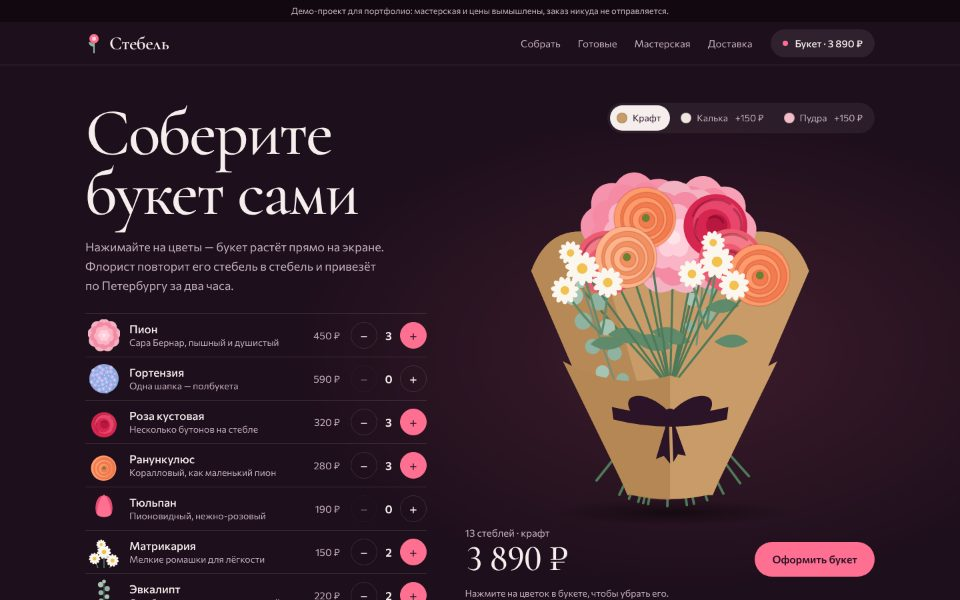
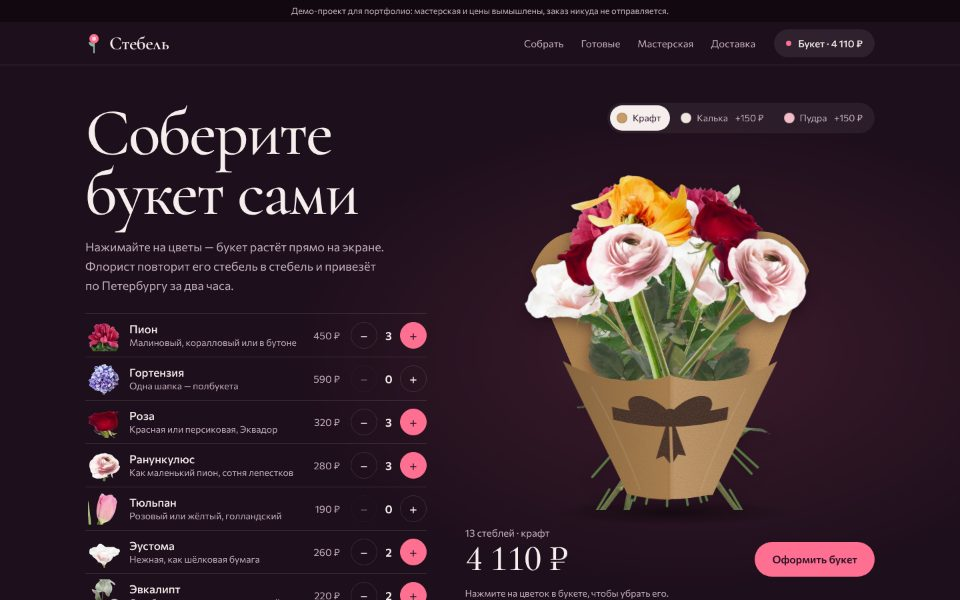
Стебель: букет собирается из настоящих фото цветов на стеблях
Claude-Session: https://claude.ai/code/session_01ErWDkw8ehoDjXzcsEpoAZi

diff --git a/demo-flowers/index.html b/demo-flowers/index.html
@@ -82,7 +82,7 @@
   .stem-row { display: grid; grid-template-columns: minmax(0, 1fr) auto; align-items: center; gap: 12px; border-bottom: 1px solid var(--night-line); }
   .stem-add { display: grid; grid-template-columns: 48px minmax(0, 1fr) auto; align-items: center; gap: 14px; min-height: 64px; padding: 6px 4px; border: 0; background: none; text-align: left; cursor: pointer; border-radius: 12px; transition: background-color .2s; }
   @media (hover: hover) { .stem-add:hover { background: rgba(255, 255, 255, .05); } .stem-add:hover .ico { transform: rotate(-8deg) scale(1.08); } }
-  .ico { width: 48px; height: 48px; transition: transform .45s var(--spring); }
+  .ico { width: 48px; height: 48px; object-fit: contain; transition: transform .45s var(--spring); }
   .stem-add b { display: block; font-weight: 500; font-size: 1.0625rem; line-height: 1.25; }
   .stem-add small { display: block; color: var(--on-night-soft); font-size: .875rem; line-height: 1.35; }
   .stem-add b em { display: none; font-style: normal; font-weight: 400; color: var(--on-night-soft); margin-left: 8px; font-size: .9375rem; font-variant-numeric: tabular-nums; }
@@ -102,10 +102,10 @@
   .papers button[aria-pressed="true"] { background: var(--on-night); color: var(--ink); }
   .bouquet { display: block; width: 100%; height: auto; max-height: 72vh; margin: 4px auto 0; overflow: visible; -webkit-tap-highlight-color: transparent; }
   .bouquet .stem { transition: transform .8s var(--ease); }
-  .bouquet .s-up { transition: transform .7s var(--ease); }
-  .bouquet .head { transition: transform .7s var(--ease); cursor: pointer; }
-  .bouquet .bloom { transition: transform .55s var(--spring) .28s, filter .2s; }
-  @media (hover: hover) { .bouquet .head:hover .bloom { filter: brightness(1.12) drop-shadow(0 0 6px rgba(255, 255, 255, .35)); } }
+  .bouquet .slide { transition: transform .8s var(--ease), opacity .5s; }
+  .bouquet image { cursor: pointer; transition: filter .2s; }
+  @media (hover: hover) { .bouquet image:hover { filter: brightness(1.12); } }
+  #layers { filter: drop-shadow(0 6px 8px rgba(20, 4, 16, .45)); }
   .bouquet .paper-back, .bouquet .paper-front { transition: transform .8s var(--ease), fill .5s; }
   .bouquet .paper-front path, .bouquet .paper-back path { transition: fill .5s; }
   .stage-foot { display: flex; align-items: flex-end; justify-content: space-between; gap: 16px; flex-wrap: wrap; margin-top: -8px; }
@@ -286,16 +286,26 @@
         <svg class="bouquet" id="bouquet" viewBox="40 150 520 500" role="img" aria-label="Ваш букет">
           <defs>
             <radialGradient id="floor" cx="50%" cy="50%" r="50%"><stop offset="0" stop-color="#000" stop-opacity=".45"/><stop offset="1" stop-color="#000" stop-opacity="0"/></radialGradient>
+            <filter id="grain" x="0" y="0" width="100%" height="100%">
+              <feTurbulence type="fractalNoise" baseFrequency=".85" numOctaves="3" seed="4" result="noise"/>
+              <feColorMatrix in="noise" type="matrix" values="0 0 0 0 .2  0 0 0 0 .12  0 0 0 0 .05  0 0 0 .55 0" result="fibres"/>
+              <feComposite in="fibres" in2="SourceGraphic" operator="in" result="grain"/>
+              <feMerge><feMergeNode in="SourceGraphic"/><feMergeNode in="grain"/></feMerge>
+            </filter>
+            <linearGradient id="fold" x1="0" x2="1"><stop offset="0" stop-color="#000" stop-opacity=".22"/><stop offset=".48" stop-color="#000" stop-opacity="0"/><stop offset=".52" stop-color="#fff" stop-opacity=".1"/><stop offset="1" stop-color="#000" stop-opacity=".12"/></linearGradient>
+            <clipPath id="trim"><rect x="0" y="0" width="600" height="624"/></clipPath>
           </defs>
           <ellipse cx="300" cy="628" rx="150" ry="16" fill="url(#floor)"/>
-          <g class="paper-back" id="paper-back" style="transform-origin: 300px 640px">
+          <g class="paper-back" id="paper-back" style="transform-origin: 300px 640px" filter="url(#grain)">
             <path d="M246 606 L124 322 Q146 262 204 274 Q238 214 300 232 Q362 214 396 274 Q454 262 476 322 L354 606 Z"/>
             <path d="M246 606 L124 322 Q146 262 204 274 L300 610 Z" opacity=".55"/>
           </g>
-          <g id="layers"></g>
-          <g class="paper-front" id="paper-front">
+          <g id="layers" clip-path="url(#trim)"></g>
+          <g class="paper-front" id="paper-front" filter="url(#grain)">
             <path d="M246 604 L164 436 Q232 474 300 454 Q368 474 436 436 L354 604 Q300 618 246 604 Z"/>
             <path d="M246 604 L164 436 Q232 474 300 454 L300 612 Q270 612 246 604 Z" opacity=".6"/>
+            <path d="M246 604 L164 436 Q232 474 300 454 Q368 474 436 436 L354 604 Q300 618 246 604 Z" fill="url(#fold)" style="fill:url(#fold)"/>
+            <path d="M200 468 Q236 530 262 600 M396 470 Q360 540 338 602" fill="none" stroke="rgba(255,255,255,.14)" stroke-width="1.5"/>
             <g id="ribbon">
               <path d="M226 494 Q300 512 374 494 L372 510 Q300 528 228 510 Z"/>
               <path d="M300 502 C 270 470, 236 476, 250 500 C 262 520, 290 512, 300 502 Z"/>
@@ -410,82 +420,46 @@
   // детерминированный «случай» по номеру стебля: букет не дёргается при перерисовке
   const rnd = (i, k = 1) => { const x = Math.sin(i * 127.1 + k * 311.7) * 43758.5453; return x - Math.floor(x); };
 
-  /* ---------- Рисунки цветов: вырезанная бумага, центр головки в 0,0 ---------- */
-  const ring = (n, dist, rx, ry, fill, rot = 0) => Array.from({ length: n }, (_, i) =>
-    `<ellipse cx="0" cy="${-dist}" rx="${rx}" ry="${ry}" fill="${fill}" transform="rotate(${rot + i * 360 / n})"/>`).join('');
-  const leaf = (y, side, len = 34, fill = '#5f8a6b') =>
-    `<path d="M0 ${y} q ${side * len * .5} ${-len * .55} ${side * len} ${-len * .2} q ${-side * len * .45} ${len * .45} ${-side * len} ${len * .2}z" fill="${fill}"/>`;
-
-  const DRAW = {
-    peony: (i) => {
-      const tint = ['#f7a1b6', '#f3b2c2', '#f592ac'][Math.floor(rnd(i, 3) * 3)];
-      return leaf(96, rnd(i, 4) > .5 ? 1 : -1) + ring(9, 24, 21, 26, tint) + ring(9, 22, 16, 20, '#f58aa5', 20) + ring(7, 13, 14, 17, '#f9b4c6', 8) + ring(6, 6, 9, 12, '#ffd0db', 30) + '<circle r="6" fill="#ffe3ea"/>';
-    },
-    rose: (i) => {
-      const c = rnd(i, 3) > .5 ? ['#d6264f', '#e8466c', '#b8173f'] : ['#ee5a6f', '#f57a8a', '#d23f58'];
-      return leaf(70, rnd(i, 4) > .5 ? 1 : -1, 28) + `<circle r="27" fill="${c[0]}"/><circle cx="2" cy="-2" r="21" fill="${c[1]}"/><circle cx="-2" cy="1" r="15" fill="${c[0]}"/><circle cx="1" cy="-1" r="9" fill="${c[2]}"/>
-        <path d="M-20 -6 a21 21 0 0 1 30 -14 M14 -16 a18 18 0 0 1 4 26 M-12 14 a16 16 0 0 1 -4 -18 M-6 -6 a8 8 0 0 1 12 2" fill="none" stroke="rgba(60,0,20,.28)" stroke-width="2" stroke-linecap="round"/>`;
-    },
-    ranunculus: (i) => {
-      const [a, b] = rnd(i, 3) > .4 ? ['#ff9a6c', '#f47b4f'] : ['#ffb38a', '#f39062'];
-      return [27, 23, 19, 15, 11, 7].map((r, k) => `<circle cx="${k % 2 ? .8 : -.8}" cy="${k * .4}" r="${r}" fill="${k % 2 ? b : a}" stroke="rgba(120,40,10,.18)" stroke-width="1"/>`).join('') + '<circle r="3.5" fill="#6d7f32"/>';
-    },
-    tulip: (i) => {
-      const [a, b] = rnd(i, 3) > .5 ? ['#ff6f91', '#e64b72'] : ['#ff8fa8', '#f0607f'];
-      return `<path d="M0 30 q -40 -6 -36 -82 q 10 4 14 10 q 4 -16 22 -26 q 18 10 22 26 q 4 -6 14 -10 q 4 76 -36 82z" fill="#5f8a6b" transform="translate(0 70) scale(.36)"/>
-        <path d="M-16 6 C -22 -14 -14 -32 -4 -34 C 2 -22 2 -6 -16 6 Z" fill="${b}"/><path d="M16 6 C 22 -14 14 -32 4 -34 C -2 -22 -2 -6 16 6 Z" fill="${b}"/>
-        <path d="M-14 8 C -16 -10 -8 -30 0 -36 C 8 -30 16 -10 14 8 Q 0 16 -14 8 Z" fill="${a}"/>`;
-    },
-    chamomile: () => {
-      const head = (x, y, s) => `<g transform="translate(${x} ${y}) scale(${s})">${ring(11, 8, 3.4, 7, '#fbf6ee')}<circle r="4.6" fill="#f2c14e"/></g>`;
-      return `<path d="M0 0 L0 60 M-20 14 Q-12 40 0 60 M18 18 Q10 42 0 60 M-6 -14 L0 0" stroke="#5f8a6b" stroke-width="2" fill="none"/>` + head(0, 0, 1) + head(-20, 14, .82) + head(18, 18, .9) + head(-6, -16, .7);
-    },
-    hydrangea: (i) => {
-      const cols = rnd(i, 3) > .5 ? ['#a9bdf0', '#c3b3ee', '#93aee6'] : ['#c9b4ec', '#b0c4f2', '#dcc6f2'];
-      let s = '<circle r="44" fill="#8ea6db"/>';
-      for (let k = 0; k < 34; k++) {
-        const r = 40 * Math.sqrt((k + .5) / 34), a = k * 2.39996;
-        const x = r * Math.cos(a), y = r * Math.sin(a), c = cols[k % 3];
-        s += `<g transform="translate(${x.toFixed(1)} ${y.toFixed(1)}) rotate(${(k * 37) % 90})"><rect x="-6" y="-6" width="12" height="12" rx="5" fill="${c}"/><circle r="1.6" fill="#f4f1ff"/></g>`;
-      }
-      return leaf(84, 1, 40) + leaf(92, -1, 36) + s;
-    },
-    eucalyptus: (i) => {
-      let s = '';
-      for (let k = 0; k < 9; k++) {
-        const y = k * 15, side = k % 2 ? 1 : -1, r = 10.5 - k * .5;
-        s += `<circle cx="${side * (r + 2)}" cy="${y}" r="${r}" fill="${k % 3 ? '#8fb3a0' : '#a6c4b4'}"/>`;
-      }
-      return `<path d="M0 -10 L0 140" stroke="#6e8f7c" stroke-width="2"/>${s}<circle cy="-12" r="7" fill="#a6c4b4"/>`;
-    },
+  /* ---------- Стебли: настоящие фото с вырезанным фоном ---------- */
+  // [файл, высота в букете, ширина/высота, центр головки по x и y в долях картинки]
+  const FLOWERS = {
+    peony: [['peony-crimson', 250, 0.597, 0.499, 0.199], ['peony-bud', 290, 0.703, 0.522, 0.108], ['peony-coral', 150, 0.883, 0.456, 0.366]],
+    rose: [['rose-red', 360, 0.367, 0.480, 0.075], ['rose-peach', 330, 0.455, 0.528, 0.139]],
+    ranunculus: [['ranunculus-pink', 175, 0.530, 0.477, 0.210], ['ranunculus-orange', 300, 0.422, 0.407, 0.136]],
+    tulip: [['tulip-pink', 330, 0.219, 0.429, 0.169], ['tulip-pink-2', 270, 0.308, 0.576, 0.150], ['tulip-yellow', 200, 0.550, 0.559, 0.235]],
+    hydrangea: [['hydrangea-violet', 320, 0.458, 0.509, 0.219]],
+    eustoma: [['eustoma-white', 175, 0.630, 0.479, 0.171]],
+    eucalyptus: [['eucalyptus', 230, 0.258, 0.512, 0.150], ['eucalyptus-2', 220, 0.389, 0.509, 0.150]],
   };
 
   const TYPES = {
-    peony: { name: 'Пион', note: 'Сара Бернар, пышный и душистый', price: 450, rank: 1, len: 0, scale: 1.45 },
-    hydrangea: { name: 'Гортензия', note: 'Одна шапка — полбукета', price: 590, rank: 0, len: 22, scale: 1.3 },
-    rose: { name: 'Роза кустовая', note: 'Несколько бутонов на стебле', price: 320, rank: 2, len: 10, scale: 1.5 },
-    ranunculus: { name: 'Ранункулюс', note: 'Коралловый, как маленький пион', price: 280, rank: 3, len: 4, scale: 1.45 },
-    tulip: { name: 'Тюльпан', note: 'Пионовидный, нежно-розовый', price: 190, rank: 4, len: 20, scale: 1.4 },
-    chamomile: { name: 'Матрикария', note: 'Мелкие ромашки для лёгкости', price: 150, rank: 5, len: 26, scale: 1.45 },
-    eucalyptus: { name: 'Эвкалипт', note: 'Серебристая зелень, пахнет мятой', price: 220, rank: 6, len: 34, scale: 1.15 },
+    peony: { name: 'Пион', note: 'Малиновый, коралловый или в бутоне', price: 450, rank: 1, len: 0 },
+    hydrangea: { name: 'Гортензия', note: 'Одна шапка — полбукета', price: 590, rank: 0, len: 22 },
+    rose: { name: 'Роза', note: 'Красная или персиковая, Эквадор', price: 320, rank: 2, len: 10 },
+    ranunculus: { name: 'Ранункулюс', note: 'Как маленький пион, сотня лепестков', price: 280, rank: 3, len: 4 },
+    tulip: { name: 'Тюльпан', note: 'Розовый или жёлтый, голландский', price: 190, rank: 4, len: 20 },
+    eustoma: { name: 'Эустома', note: 'Нежная, как шёлковая бумага', price: 260, rank: 5, len: 14 },
+    eucalyptus: { name: 'Эвкалипт', note: 'Серебристая зелень, пахнет мятой', price: 220, rank: 6, len: 34 },
   };
-  // от дальнего слоя к ближнему: зелень сзади, мелкие ромашки поверх всего
-  const LAYERS = ['eucalyptus', 'peony', 'hydrangea', 'tulip', 'rose', 'ranunculus', 'chamomile'];
-  const ICON_BOX = { chamomile: '-34 -34 68 68', eucalyptus: '-30 -20 60 120', hydrangea: '-48 -48 96 96', peony: '-48 -48 96 96', default: '-34 -40 68 68' };
+  // от дальнего слоя к ближнему: зелень сзади, мелкие головки впереди
+  const LAYERS = ['eucalyptus', 'peony', 'hydrangea', 'eustoma', 'tulip', 'rose', 'ranunculus'];
+  const ICON = { peony: 'peony-crimson', hydrangea: 'hydrangea-violet', rose: 'rose-red', ranunculus: 'ranunculus-pink', tulip: 'tulip-pink-2', eustoma: 'eustoma-white', eucalyptus: 'eucalyptus-2' };
   const PAPERS = {
     kraft: { name: 'Крафт', price: 0, fill: '#c99b68', shade: '#a77a49', ribbon: '#2b1428' },
     calque: { name: 'Калька', price: 150, fill: '#efe6e1', shade: '#cdbdb4', ribbon: '#ff6f91' },
     powder: { name: 'Пудра', price: 150, fill: '#f2bccb', shade: '#d994a8', ribbon: '#2b1428' },
   };
   const MAX = 35, DELIVERY = 390, FREE_FROM = 6000;
-  const DAY = { peony: 3, rose: 3, ranunculus: 3, eucalyptus: 2, chamomile: 2 };
+  const DAY = { peony: 3, rose: 3, ranunculus: 3, eustoma: 2, eucalyptus: 2 };
   const READY = [
-    { name: 'Персиковый вечер', photo: '1494336850228-54adc1dd87ad', alt: 'Букет из белых и персиковых роз с папоротником', text: 'Кустовые розы и коралловые ранункулюсы с эвкалиптом. Тёплый, как свет лампы вечером.', mix: { rose: 5, ranunculus: 4, eucalyptus: 3 }, paper: 'calque' },
-    { name: 'Сад после дождя', photo: '1780892057871-a58ab617718f', alt: 'Яркий букет из пионов, ранункулюсов и гортензии в руке', text: 'Всего понемногу, как будто нарвали в саду: пионы, гортензия, тюльпаны и ромашки.', mix: { hydrangea: 1, peony: 2, ranunculus: 3, tulip: 3, chamomile: 3 }, paper: 'kraft' },
-    { name: 'Пионовая ночь', photo: '1511201173873-c327e63eb6c4', alt: 'Бледно-розовые пионы на чёрном фоне', text: 'Девять пионов Сара Бернар и облако матрикарии. Когда нужно без слов.', mix: { peony: 9, chamomile: 2 }, paper: 'powder' },
-    { name: 'Красный разговор', photo: '1457089328109-e5d9bd499191', alt: 'Тёмно-красные цветы в букете на тёмном фоне', text: 'Глубокие красные розы, ранункулюсы и немного зелени. Для важного свидания или извинения.', mix: { rose: 7, ranunculus: 4, eucalyptus: 2 }, paper: 'kraft' },
+    { name: 'Персиковый вечер', photo: '1494336850228-54adc1dd87ad', alt: 'Букет из белых и персиковых роз с папоротником', text: 'Кустовые розы и коралловые ранункулюсы с эвкалиптом. Тёплый, как свет лампы вечером.', mix: { rose: [5, 'rose-peach'], ranunculus: [4, 'ranunculus-orange'], eucalyptus: 3 }, paper: 'calque' },
+    { name: 'Сад после дождя', photo: '1780892057871-a58ab617718f', alt: 'Яркий букет из пионов, ранункулюсов и гортензии в руке', text: 'Всего понемногу, как будто нарвали в саду: пионы, гортензия, тюльпаны и эустома.', mix: { hydrangea: 1, peony: 2, ranunculus: 3, tulip: 3, eustoma: 2 }, paper: 'kraft' },
+    { name: 'Пионовая ночь', photo: '1511201173873-c327e63eb6c4', alt: 'Бледно-розовые пионы на чёрном фоне', text: 'Девять пионов и две белые эустомы. Когда нужно без слов.', mix: { peony: 9, eustoma: 2 }, paper: 'powder' },
+    { name: 'Красный разговор', photo: '1457089328109-e5d9bd499191', alt: 'Тёмно-красные цветы в букете на тёмном фоне', text: 'Глубокие красные розы, ранункулюсы и немного зелени. Для важного свидания или извинения.', mix: { rose: [7, 'rose-red'], ranunculus: 4, eucalyptus: 2 }, paper: 'kraft' },
   ];
-  const priceOf = (mix, paper = 'kraft') => Object.entries(mix).reduce((s, [t, n]) => s + TYPES[t].price * n, 0) + PAPERS[paper].price;
+  // в составе можно указать сорт: { rose: [7, 'rose-red'] }
+  const qty = (v) => (Array.isArray(v) ? v[0] : v);
+  const priceOf = (mix, paper = 'kraft') => Object.entries(mix).reduce((s, [t, n]) => s + TYPES[t].price * qty(n), 0) + PAPERS[paper].price;
 
   let stems = [];      // [{ id, type, el }]
   let nextId = 1;
@@ -495,7 +469,7 @@
   $('#stems').innerHTML = Object.entries(TYPES).map(([t, f]) => `
     <li class="stem-row" data-t="${t}">
       <button type="button" class="stem-add" data-add="${t}" aria-label="Добавить: ${f.name}, ${rub(f.price)} за стебель">
-        <svg class="ico" viewBox="${ICON_BOX[t] || ICON_BOX.default}" aria-hidden="true">${DRAW[t](3)}</svg>
+        <img class="ico" src="flowers/${ICON[t]}-icon.webp" alt="" width="48" height="48">
         <span><b>${f.name}<em>${rub(f.price)}</em></b><small>${f.note}</small></span>
         <span class="price">${rub(f.price)}</span>
       </button>
@@ -519,21 +493,28 @@
   const layers = {};
   LAYERS.forEach((t) => { const g = document.createElementNS(NS, 'g'); g.dataset.layer = t; $('#layers').appendChild(g); layers[t] = g; });
 
-  function makeStem(type, id) {
+  // стебель: группа повёрнута вокруг связки, внутри фото едет вдоль своей оси; головка — в 0,0
+  function makeStem(type, id, prefer) {
+    const vars = FLOWERS[type];
+    const v = vars.find((x) => x[0] === prefer) || vars[Math.floor(rnd(id, 5) * vars.length)];
+    const [src, h0, ratio, hx, hy] = v;
+    const h = h0 * 1.22;
+    const w = h * ratio;
+    // лёгкое отражение, чтобы одинаковые стебли не выглядели копиями
+    const flip = rnd(id, 6) > .5 ? -1 : 1;
     const g = document.createElementNS(NS, 'g');
     g.setAttribute('class', 'stem');
     g.dataset.id = id;
-    g.innerHTML = `<line x1="0" y1="0" x2="0" y2="150" stroke="#4f7a5a" stroke-width="3.2" stroke-linecap="round"/>
-      <line class="s-up" x1="0" y1="0" x2="0" y2="-1" stroke="#4f7a5a" stroke-width="3.2" vector-effect="non-scaling-stroke"/>
-      <g class="head"><g class="bloom"><g transform="scale(${TYPES[type].scale})">${DRAW[type](id)}</g></g></g>`;
+    g.innerHTML = `<g class="slide"><line class="tail" x1="0" y1="${((1 - hy) * h - 6).toFixed(1)}" x2="0" y2="300" stroke="#5c7a45" stroke-width="3" stroke-linecap="round"/>
+      <image href="flowers/${src}.webp" x="${(-hx * w).toFixed(1)}" y="${(-hy * h).toFixed(1)}" width="${w.toFixed(1)}" height="${h}" transform="scale(${flip} 1)"/></g>`;
     return g;
   }
 
   // раскладка: подсолнечная спираль в полукупол; крупные цветы в центре, зелень по краю
   function layout() {
     const n = stems.length;
-    const spread = Math.min(58, 16 + n * 2.5);
-    const base = 196 + Math.min(n, 24) * 1.1;
+    const spread = Math.min(64, 22 + n * 2.6);
+    const base = 200 + Math.min(n, 24) * 1.1;
     const slots = Array.from({ length: n }, (_, k) => {
       const r = Math.sqrt((k + .5) / Math.max(n, 1)), a = k * 2.39996;
       return { x: r * Math.cos(a), y: r * Math.sin(a), r };
@@ -551,38 +532,37 @@
 
   function place(s) {
     s.el.style.transform = `translate(300px, 470px) rotate(${s.angle.toFixed(2)}deg)`;
-    s.el.querySelector('.s-up').style.transform = `scaleY(${s.len.toFixed(1)})`;
-    s.el.querySelector('.head').style.transform = `translateY(${(-s.len).toFixed(1)}px) rotate(${(-s.angle * .55).toFixed(2)}deg)`;
+    s.el.querySelector('.slide').style.transform = `translateY(${(-s.len).toFixed(1)}px)`;
+    // хвост стебля дотягиваем до низа упаковки
+    s.el.querySelector('.tail').setAttribute('y2', (s.len + 150).toFixed(1));
   }
 
-  function addStem(type, quiet) {
+  function addStem(type, quiet, prefer) {
     if (stems.length >= MAX) { $('#limit').textContent = `В одну упаковку помещается ${stemsWord(MAX)}. Для большого букета позвоните нам — соберём в коробке.`; return; }
     const s = { id: nextId++, type };
-    s.el = makeStem(type, s.id);
+    s.el = makeStem(type, s.id, prefer);
     layers[type].appendChild(s.el);
     stems.push(s);
     layout();
-    // рост: стебель вытягивается из связки, головка раскрывается с отскоком
-    const up = s.el.querySelector('.s-up'), head = s.el.querySelector('.head'), bloom = s.el.querySelector('.bloom');
-    const end = [up.style.transform, head.style.transform];
-    up.style.transition = head.style.transition = bloom.style.transition = 'none';
-    up.style.transform = 'scaleY(0)';
-    head.style.transform = `translateY(0px) rotate(0deg)`;
-    bloom.style.transform = 'scale(0)';
+    // флорист вставляет стебель сверху: он опускается в букет и проявляется
+    const slide = s.el.querySelector('.slide'), end = slide.style.transform;
+    slide.style.transition = 'none';
+    slide.style.transform = `translateY(${(-s.len - 90).toFixed(1)}px)`;
+    slide.style.opacity = 0;
     s.el.getBoundingClientRect();
-    up.style.transition = head.style.transition = bloom.style.transition = '';
-    up.style.transform = end[0]; head.style.transform = end[1]; bloom.style.transform = 'scale(1)';
+    slide.style.transition = '';
+    slide.style.transform = end;
+    slide.style.opacity = 1;
     if (!quiet) update();
   }
 
   function removeStem(s) {
     stems = stems.filter((x) => x !== s);
-    const up = s.el.querySelector('.s-up'), head = s.el.querySelector('.head'), bloom = s.el.querySelector('.bloom');
-    bloom.style.transition = 'transform .3s var(--ease)';
-    bloom.style.transform = 'scale(0)';
-    up.style.transform = 'scaleY(0)';
-    head.style.transform = 'translateY(0px)';
-    setTimeout(() => s.el.remove(), reduced ? 0 : 700);
+    const slide = s.el.querySelector('.slide');
+    s.el.style.pointerEvents = 'none';
+    slide.style.transform = `translateY(${(-s.len - 110).toFixed(1)}px)`;
+    slide.style.opacity = 0;
+    setTimeout(() => s.el.remove(), reduced ? 0 : 600);
     $('#limit').textContent = '';
     layout(); update();
   }
@@ -606,12 +586,12 @@
     [...stems].forEach((s) => { s.el.remove(); });
     stems = [];
     $('#limit').textContent = '';
-    const list = Object.entries(mix).flatMap(([t, n]) => Array(n).fill(t));
-    // перемешиваем, чтобы цветы вырастали вперемешку, а не по сортам
-    list.sort((a, b) => rnd(a.length * 7 + list.indexOf(a)) - rnd(b.length * 7 + list.indexOf(b)));
+    const list = Object.entries(mix).flatMap(([t, v]) => Array(qty(v)).fill([t, Array.isArray(v) ? v[1] : null]));
+    // перемешиваем, чтобы цветы появлялись вперемешку, а не по сортам
+    const order = list.map((x, i) => [rnd(i + nextId, 11), x]).sort((a, b) => a[0] - b[0]).map((x) => x[1]);
     setPaper(paperKey || paper);
-    if (reduced) { list.forEach((t) => addStem(t, true)); update(); return; }
-    list.forEach((t, i) => setTimeout(() => { addStem(t, true); update(); }, 160 + i * 110));
+    if (reduced) { order.forEach(([t, v]) => addStem(t, true, v)); update(); return; }
+    order.forEach(([t, v], i) => setTimeout(() => { addStem(t, true, v); update(); }, 160 + i * 120));
   }
 
   /* ---------- Цена и сводка ---------- */
@@ -648,7 +628,7 @@
     summary();
   }
   // копия букета для сводки: без id, чтобы не было двойников в документе
-  const art = () => $('#bouquet').innerHTML.replace(/ id="(?!floor)[^"]*"/g, '').replace(/<radialGradient[\s\S]*?<\/radialGradient>/, '');
+  const art = () => $('#bouquet').innerHTML.replace(/<defs>[\s\S]*?<\/defs>/, '').replace(/ id="[^"]*"/g, '');
   const describe = (c) => Object.entries(c).map(([t, k]) => `${TYPES[t].name.toLowerCase()} × ${k}`).join(', ');
 
   /* ---------- Готовые букеты ---------- */
